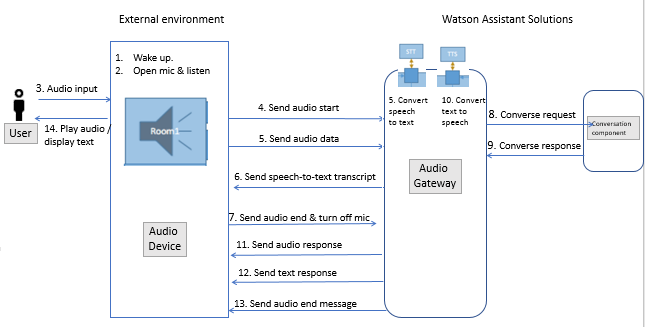
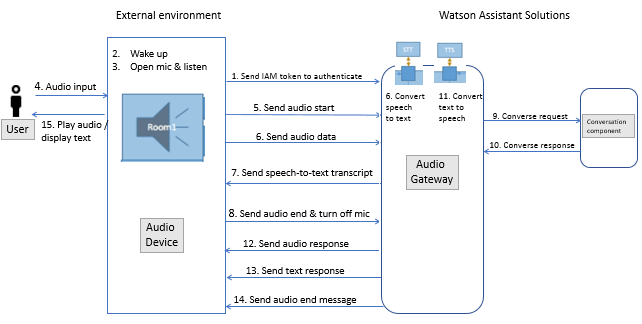
Updated following review.

diff --git a/_content/skill/build-skill.md b/_content/skill/build-skill.md
@@ -24,10 +24,9 @@ Complete these steps:
 
 #### Step 1: Clone the hello world skill
 1.  Copy the hello world skill boilerplate to your local system.
-    1. Go to  [https://github.com/Watson-Personal-Assistant/SkillBoilerplate](https://github.com/Watson-Personal-Assistant/SkillBoilerplate).
-    2. Click Fork to take a copy of the repository.
-    3. Click Clone or download. Copy the git url.
-    4. Open a command-line terminal and enter<br>`git clone git_url`
+    1. Click Fork to take a copy of the repository.
+    2. Click Clone or download. Copy the git url.
+    3. Open a command-line terminal and enter<br>`git clone git_url`
 2. Install the node dependencies for the skill.
     1. Enter `cd SkillBoilerplate`.
     2. Enter `npm install`.
@@ -38,7 +37,7 @@ Complete these steps:
 `http://localhost:10011`
 2. Go to Converse.
 3. Click /converse.
-4. Click Try it out. The text "Hello" is included in the input:
+4. Click Try it out.  The text "Hello" is included in the input:
   ```
 {
   "id": "001",
@@ -49,8 +48,9 @@ Complete these steps:
   "attributes": {
     "intent": "hello-world"
   },
+```
 5. Click Execute.
-The converse REST API responds with "Hello world".  The response is included the text attribute of the  JSON data.  <br>
+The conversation REST API responds with "Hello world".  The response is included the text attribute of the  JSON data.  <br>
 The JSON data that is returned includes the following text:<br>
 ```JSON
 "speech": {
@@ -63,9 +63,9 @@ The JSON data that is returned includes the following text:<br>
 #### Step 3: Deploy your skill to IBM Cloud.
 Deploy your skill to IBM Cloud to make your skill available for you and others to use.
 1. Stop your locally running skill.  Enter `Ctrl C` to stop the skill.
-2. Update the skill name and host name in the `manifest.yml` file of your skill.
+2. Update the host name and skill name in the manifest.yml file of your skill.
 3. Log in to IBM Cloud. <br>`bx login`<br>
-4. From the SkillBoilerplate directory, push your skill to IBM Cloud.  Enter:<br>`bx app push`<br>
+4. Push your skill to IBM Cloud.  Enter:<br>`bx app push`<br>
 An `App started` message is returned.
 5.  Verify that your skill is running and reachable on IBM Cloud using the /healthcheck API endpoint.  Enter:
 ```shell
@@ -90,10 +90,10 @@ Connected to simpleskill.mybluemix.net (158.85.156.19) port 80 (#0)
   < X-Global-Transaction-ID: 1919343303
 ```
 <br>
-If the skill is not accessible, complete these steps:
+If the skilll is not accessible, complete these steps:
 - Check that the URL you specificed matches the host name of the skill on IBM Cloud.
 - Use the skill URL to access the skill to verify that it is running.
-- From a web browser, check if you can open the Swagger documenation for the skill. For example: enter the URL `https://paste_your_skill_name_here.mybluexmix.net/docs`.
+- From a web browser, check if you can open the Swagger documenation for the skill. For example: enter the URL `https://paste_your_skill_name_here.mybluxmix.net/docs`.
 
 ### Step 4: Create a token from Platform API key
 Create a Platform API key and use that key to create an authorization token to be used when sending commands to your Watson Assistant Solutions instance.
@@ -108,14 +108,14 @@ node printToken.js paste-your-Platform-API-key-here
 ### Step 5: Add the skill to your Watson Assistant Solutions instance
 Use the skills endpoint of the Conversation REST API to add the skill that is running on IBM Cloud. Enter:
 ```shell
-curl -X POST --header 'Content-Type: application/json' --header 'Accept: application/json' --header "authorization: Bearer `node printToken.js paste-your-Platform-API-key-here`" -d '{ "name": "paste_your_skill_name_here", "url": "https://paste_your_skill_name_here.mybluemix.net" }' 'https://watson-personal-assistant-toolkit.mybluemix.net/v2/api/skills'
+curl -X POST --header 'Content-Type: application/json' --header 'Accept: application/json' --header "authorization: Bearer `node printToken.js paste-your-Platform-API-key-here`" -d '{ "name": "myHelloWorld", "url": "https://paste_your_skill_name_here.mybluemix.net" }' 'https://watson-personal-assistant-toolkit.mybluemix.net/v2/api/skills'
 ```
 A `skill updated successfully` message is displayed.
 
 ### Step 6: Test your externally-deployed skill from Watson Assistant Solutions.
 Use the conversation REST API to converse with your skill.  Enter:
 ```shell
-curl -X POST --header 'Content-Type: application/json' --header 'Accept: application/json' --header "authorization: Bearer `node printToken.js paste-your-Platform-API-key-here`" -d '{ "text": "Hello", "language": "en-US", "userID": "application-14c", "deviceType": "phone", "additionalInformation": { "context": {} } }' 'https://watson-personal-assistant-toolkit.mybluemix.net/v2/api/skills/paste_your_skill_name_here/converse'
+curl -X POST --header 'Content-Type: application/json' --header 'Accept: application/json' --header "authorization: Bearer `node printToken.js paste-your-Platform-API-key-here`" -d '{ "text": "Hello", "language": "en-US", "userID": "application-14c", "deviceType": "phone", "additionalInformation": { "context": {} } }' 'https://watson-personal-assistant-toolkit.mybluemix.net/v2/api/skills/myHelloWorld/converse'
 ```
 The JSON data that is returned includes the following text:
 ```JSON

diff --git a/_content/audio/how_it_works_audio.md b/_content/audio/how_it_works_audio.md
@@ -1,26 +1,27 @@
 ---
-How audio is processed by a multi-tenant audio gateway
+title: How audio is processed by a multi-tenant audio gateway
+weight: 10
 ---
-If you have either the IBM Watson Assistant for Automotive or IBM Watson Assistant for Hospitality flavour of Watson Assistant Solutions, you have access to a multi-tenant audio gateway.
+The audio client passes an IAM token when it first connects to audio gateway to authenticate. For more information about setting up IAM authenticaton for an audio client, see the [Authenticating audio devices]({{site.baseurl}}/audio/audio+authentication/) topic.
 
-The audio client must pass an IAM token in its messages to authenticate. For more information about setting up IAM authenticaton for an audio client, see the _Authenticating audio devices_ topic. 
-
-For a multi-tenant audio gateway, the flow for processing audio input in Watson Assistant Solutions is depicted in figure 1.
+For a multi-tenant audio gateway, the flow for processing audio input in Watson Assistant Solutions is shown in figure 1.
 Figure 1 - audio flow
 ![audio flow](flow.PNG)<br/>
 The steps in this flow are as follows:
+1. When it turns on, the audio client sends an IAM token to the audio gateway and the gateway authenticates the client.
 1. The audio client processes a wake-up command.
 2. The audio client opens its microphone and listens.
-3. The audio client receive audio input from a user utterance.
+3. The audio client receives audio input from a user utterance.
 4. The audio client sends an `audio start` message to the audio gateway.
-5. For each chunk of binary audio data in the utterance, the audio client sends the audio that is captures in an `audio data` message. The audio gateway converts the audio input to text in real-time using a speech-to-text service.
+5. For each chunk of binary audio data in the utterance, the audio client sends the audio that it captures in an `audio data` message. The audio gateway converts the audio input to text in real-time using a speech-to-text service.
 6. The audio gateway sends `speech-to-text transcript` messages to the audio client.
 7. The audio client sends an `audio end` message to the gateway and turns off its microphone.
 9. The audio gateway forwards the text input to the routing core.
-10. The routing core sends the utterance to the conversation component for evaluation and processing. The skill with the highest confidence processes the request and sends a response. The conversation component forwards the converse response from the skill to the audio gateway. For details of these steps, see [How routing works][4dd4332b].
+10. The routing core sends the utterance to the conversation component for evaluation and processing. The skill with the highest confidence processes the request and sends a response. The conversation component forwards the converse response from the skill to the audio gateway. For details of these steps, see [How routing works]({{site.baseurl}}/understand-service/how_it_works/).
 11. If an audio response is being sent, the audio gateway coverts the response from the routing core to audio using a text-to-speech service.  The gateway sends each chunk of binary audio data to the client in real-time.
 12. If a text response is being sent, the audio gateway forwards the text reply to the device.
 13. The audio gateway sends an `audio end` message.
 14. The audio client plays the audio response or displays the text response, or both. The audio client checks if the audio gateway set the prompt parameter to true in the audio end message. If true, the skill expects a response from the audio client, and the steps are repeated from step 3.  Otherwise the audio client waits for a new wake-up command.
 
-  [4dd4332b]: https://watson-personal-assistant.github.io/developer/understand-service/how-it-works/ "How routing works"
+> **What to do next?**<br/>
+Learn how to [authenticate audio devices]({{site.baseurl}}/audio/audio+authentication/).

diff --git a/_content/audio/interface.md b/_content/audio/interface.md
@@ -1,7 +1,8 @@
 ---
- Audio streaming interface specification for a multi-tenant audio gatewawy
+title: Audio streaming interface specification
+weight: 20
 ---
-Audio streaming between the multi-tenant audio gateway and the audio client uses a web socket interface.
+Audio streaming between a multi-tenant audio gateway and an audio client uses a web socket interface.
 
 ### Communication Messages
 Messages are used on the web socket interface to communicate between the audio client and the audio gateway.  All messages are in JSON format.  Each message includes a transaction ID that is used by the audio gateway to track the transaction.  To ensure that each ID is unique, consider using a globally unique identifier (GUID) for the transaction ID.
@@ -20,7 +21,7 @@ Example:
 }`
 
 #### Audio data
-Audio data messages are sent between the audio client and the audio gateway. The message is used to send audio data in binary format.  Use the data parameter to specify the content of the binary data in a string format.  Use the encoding parameter to specify the type of encoding to use, for example, base64. The message is always preceded by an audio start message.
+Audio data messages are sent between the audio client and the audio gateway. The message is used to send audio data in binary format.  Use the data parameter to specify the content of the binary data in string format.  Use the encoding parameter to specify the type of encoding to use, for example, base64. The message is always preceded by an audio start message.
 
 Example:
 `{
@@ -66,7 +67,7 @@ Example:
   }
 }`
 
-Note:  You can override which speech-to-text option to use in the audio start message.
+**Note**:  You can override which speech-to-text option to use in the audio start message.
 
 #### Text-to-speech options
 Text-to-speech options messages are sent from the audio client to the audio gateway.  The message specifies which text to speech engine to use for the current transaction.
@@ -119,7 +120,7 @@ Example:
 }`
 
 #### Speech-to-text transcript
-The speech-to-text transcript message is sent from the audio gateway to the client.  The message provides a transcript of the audio response in text format.  The  ID parameter matches the transaction ID in the audio start message.  The transactionID parameter is used for reporting errors in the transcript.
+Speech-to-text transcript messages are sent from the audio gateway to the client.  The message provides a transcript of the audio response in text format.  The  ID parameter matches the transaction ID in the audio start message.  The transactionID parameter is used for reporting errors in the transcript.
 
 Example:
 `{
@@ -131,7 +132,7 @@ Example:
 }`
 
 #### Error
-Error messages are sent from the audio gatewawy to the audio client  when an error occurs.  The ID paramemter matches the transaction ID of the transaction which caused the error.
+Error messages are sent from the audio gatewawy to the audio client when an error occurs.  The ID paramemter matches the transaction ID of the transaction which caused the error.
 
 Example:
 `{
@@ -139,3 +140,5 @@ Example:
   "action": "error",
   "error": {}
 }`
+> **What to do next?**<br/>
+Learn how to [authenticate audio devices]({{site.baseurl}}/further_topics/login-with-IBMid/).

diff --git a/_content/audio/audio_authentication.md b/_content/audio/audio_authentication.md
@@ -1,27 +1,15 @@
 ---
 title: Authenticating audio devices
-weight: 25
+weight: 15
 ---
-Audio clients must request an IAM API key.
+Before an audio client can connect to the audio gateway, you must provision the audio client with an IAM API key.  This key is sometimes referred to as a platform API key or an IBM Cloud API key. For more information, see the [Setting up IAM Authentication]({{site.baseurl}}/further_topics/login-with-IBMid/). For better security, audio clients should use separate API keys.
 
-**Tip**:
-- This key is also known as a Plaform API Key and a IBM Cloud API key.
-- For better security, clients should use a separate API key.
+The audio client passes an IAM token to authenticate when it first connects to audio gateway. To convert your IAM ID to an IAM token, you can use the following command:
+`curl -s 'https://iam.bluemix.net/oidc/token?grant_type=urn:ibm:params:oauth:grant- type:apikey&response_type=cloud_iam&apikey=<apikey>' -H'Content-Type:x-www-form-urlencoded' -XPOST`
+For more information about creating an IAM token from an IAM API key, see the _Cloud IAM Authentication and Authorization_ topic in the [IBM Cloud Docs](https://console.bluemix.net/docs/services/IoT/reference/security/cloud_iam.html#cloud_iam).
 
-You must set up IAM authentication for each audio client.  To create an IAM ID, see the `Setting up IAM authentication` topic.
-
-To convert your IAM ID to an IAM token, use the following command:
-  `curl -s 'https://iam.bluemix.net/oidc/token?grant_type=urn:ibm:params:oauth:grant- type:apikey&response_type=cloud_iam&apikey=<apikey>' -H'Content-Type:x-www-form-urlencoded' -XPOST`
-For more information about creating an IAM token, see the _Cloud IAM Authentication and Authorization_ topic in the [IBM Cloud Docs](https://console.bluemix.net/docs/services/IoT/reference/security/cloud_iam.html#cloud_iam).
-
-You append the IAM token in the authorization header of your websocket messages.  For example, "Authorization": "Bearer <IAM Access token>"
-Note:  The IAM token is time sensitive.  In your code, take into account that it expires every hour to avoid token expired error messages.
-
-Your websocket connection format is as follows:
-`wss://<AudioGatewayHost>:<Optional AudioGatewayPort>?skillset=<skillset to be used with this client - required parameter>&userID=<userId or clientID value used for audio gateway logs - Optional>&language=<Client language preference - Optional>;`
-
-For example: `wss://audiogatewayserver.com?skillset=built-in&userID=someUserID&language=en-US`
-
+When you connect your audio device to the audio gateway, pass the IAM token in the authorization header.  For example, `"Authorization": "Bearer <IAM Access token>"`
+**Note**:  The IAM token is time sensitive.  In your code, take into account that it expires every hour to avoid token expired error messages.
 
 > **What to do next?**<br/>
-Understand [what are skills]({{site.baseurl}}/skill/what-are-they).
+Review [Audio streaming interface specification]({{site.baseurl}}/audio/interface).

diff --git a/_content/understand-service/core.md b/_content/understand-service/core.md
@@ -2,11 +2,9 @@
 title: The conversation component
 weight: 10
 ---
-Watson Assistant Solutions uses the conversation component to route requests, in text form, to the skill that is best placed to handle each request.
+User input to Watson Assitant Solutions can be in text or audio form. Watson Assistant Solutions uses the conversation component to route requests to the skill that is best placed to handle each request.
 
-Currently, a Speech-to-Text conversion service is in alpha mode. If this feature is not enabled for your instance, this ability must be provided by your application services.
-
-After sending utterances to conversation component, your application receives a JSON reply that includes, along with JSON context data, the textual reply for you to then show, or speak to your user.
+After sending utterances to the conversation component, your application receives a JSON reply that includes, along with JSON context data, the textual reply for you to show or speak to your user.
 
 The conversation REST API provides the following end points:
 - Converse: send converse requests to a skill, a skillset, or all skills.  Typically, converse requests are sent to a skillset but in the proactive scenario, you might want a single skill to handle the user’s response to a prompt from the assistant.

diff --git a/_content/audio/audio_support.md b/_content/audio/audio_support.md
@@ -1,0 +1,12 @@
+---
+title: Using audio to converse with a multi-tenant audio gatewawy
+weight: 5
+---
+You can send audio input to Watson Assistant Solutions.  The flow for processing audio input is different from text input.  Audio input is sent from an audio device to an audio gateway component of Watson Assistant Solutions.  The audio gateway uses speech-to-text and text-to-speech services to convert audio input to text and to convert the converse response to audio.
+
+If you have either the IBM Watson Assistant for Automotive or IBM Watson Assistant for Industry flavour of Watson Assistant Solutions, you have access to a multi-tenant audio gateway.
+
+If you have IBM Watson Assistant for Hospitality, you have access to a single-tenant audio gateway in alpha mode. The process flow for a single-tenant gateway and a multi-tenant gateway is different. If you have Watson Assistant for Hospitality, start with the [Using audio to converse with a single-tenant audio gatewawy]({{site.baseurl}}/audio_single/audio_support/) topic.
+
+> **What to do next?**<br/>
+Learn how to [How audio is processed by a multi-tenant audio gateway]({{site.baseurl}}/audio/how_it_works_audio).
